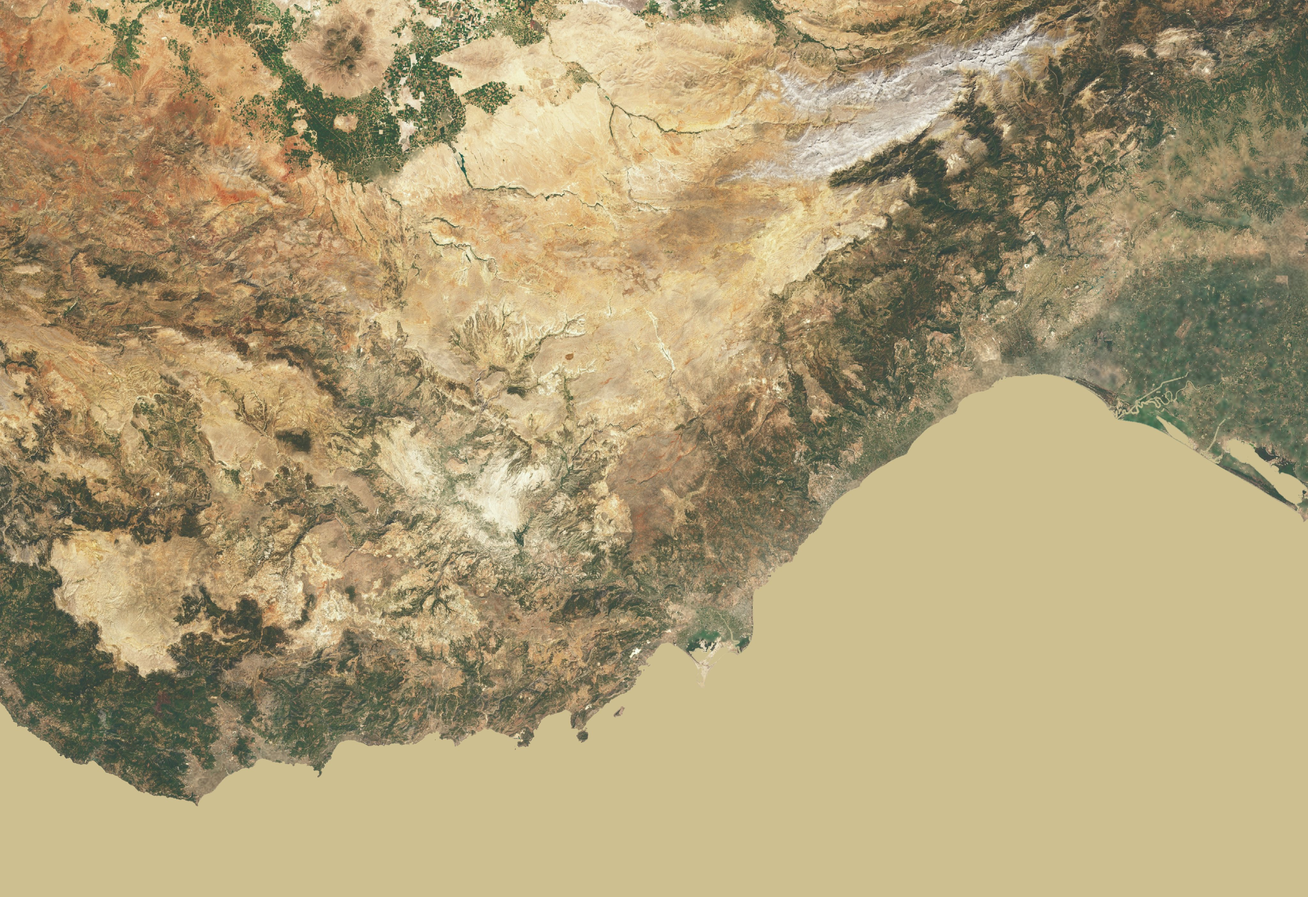
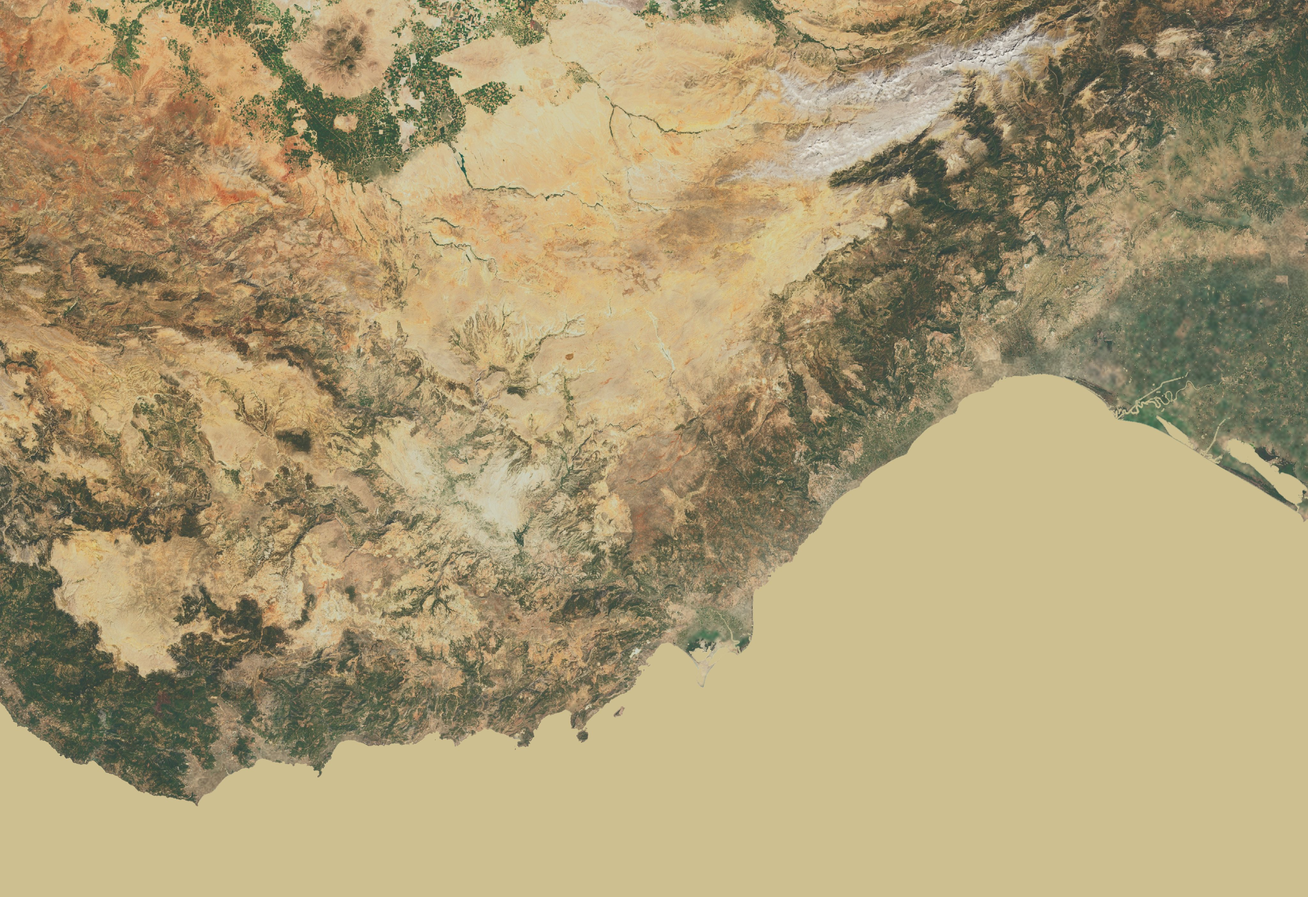
Terrain: closer ground detail, clumped trees, rivers visible behind ridges (work in progress)
Claude-Session: https://claude.ai/code/session_01RcwKvWC9jgLcENAuLPuhEE

diff --git a/src/terrain.js b/src/terrain.js
@@ -90,20 +90,22 @@ export function buildTerrain(heights0, dist, step = 1, low = false, cover = null
           return mix(mix(h21(i), h21(i+vec2(1,0)), f.x), mix(h21(i+vec2(0,1)), h21(i+vec2(1,1)), f.x), f.y); }`)
       .replace('#include <map_fragment>', `#include <map_fragment>
         float dd = length(cameraPosition - vWp);
-        float near = 1.0 - smoothstep(3.0, 14.0, dd), mid = 1.0 - smoothstep(20.0, 120.0, dd);
+        float near = 1.0 - smoothstep(5.0, 32.0, dd), mid = 1.0 - smoothstep(20.0, 120.0, dd);
         vec3 cov = texture2D(uCover, vMapUv).rgb; // tree, shrub, crop fractions
         // forest: crowns as dark clumps, coarser with distance so woods keep a texture beyond the 3D trees
-        float crowns = vn(vWp.xz*7.0)*0.5 + vn(vWp.xz*19.0)*0.3 + vn(vWp.xz*53.0)*0.2;
-        float wood = cov.r * smoothstep(0.25, 0.6, crowns + cov.r*0.35);
-        diffuseColor.rgb = mix(diffuseColor.rgb, diffuseColor.rgb*vec3(0.5, 0.62, 0.46), wood*(0.25 + 0.3*mid));
+        float crowns = vn(vWp.xz*9.0)*0.4 + vn(vWp.xz*27.0)*0.35 + vn(vWp.xz*71.0)*0.25;
+        float wood = smoothstep(0.15, 0.6, cov.r) * smoothstep(0.3, 0.62, crowns + cov.r*0.3);
+        diffuseColor.rgb = mix(diffuseColor.rgb, diffuseColor.rgb*vec3(0.42, 0.56, 0.44), wood*(0.3 + 0.4*mid));
         // open ground close up: pale limestone outcrops and stones, darker maquis tufts
         float n = vn(vWp.xz*6.0)*0.5 + vn(vWp.xz*23.0)*0.3 + vn(vWp.xz*71.0)*0.2;
         diffuseColor.rgb *= mix(1.0, 0.84 + 0.32*n, 1.0 - smoothstep(6.0, 60.0, dd));
         float open = 1.0 - cov.r;
         float stone = smoothstep(0.6, 0.78, vn(vWp.xz*41.0 + 11.0)*0.6 + vn(vWp.xz*120.0)*0.4);
-        diffuseColor.rgb = mix(diffuseColor.rgb, diffuseColor.rgb*1.22 + 0.04, stone*open*near*0.7);
+        diffuseColor.rgb = mix(diffuseColor.rgb, diffuseColor.rgb*1.3 + 0.05, stone*open*near*0.85);
+        float soil = vn(vWp.xz*15.0 + 5.0)*0.6 + vn(vWp.xz*180.0)*0.4;
+        diffuseColor.rgb *= mix(1.0, 0.78 + 0.44*soil, open*near);
         float tuft = smoothstep(0.62, 0.8, vn(vWp.xz*67.0 + 3.0)) * (0.35 + cov.g*2.0);
-        diffuseColor.rgb = mix(diffuseColor.rgb, diffuseColor.rgb*vec3(0.55, 0.68, 0.5), min(1.0, tuft)*open*near*0.55);`);
+        diffuseColor.rgb = mix(diffuseColor.rgb, diffuseColor.rgb*vec3(0.55, 0.68, 0.5), min(1.0, tuft)*open*near*0.7);`);
   };
   // earth-coloured wall round the edge of the map, from the surface down to the plinth
   const edge = [];
@@ -115,14 +117,14 @@ export function buildTerrain(heights0, dist, step = 1, low = false, cover = null
   edge.forEach((k, n) => { sp.push(pos.getX(k), pos.getY(k), pos.getZ(k), pos.getX(k), -1.5, pos.getZ(k)); const a = n * 2, b = ((n + 1) % edge.length) * 2; si.push(a, b, a + 1, b, b + 1, a + 1); });
   const skirtGeo = new THREE.BufferGeometry();
   skirtGeo.setAttribute('position', new THREE.Float32BufferAttribute(sp, 3)); skirtGeo.setIndex(si); skirtGeo.computeVertexNormals();
-  const skirt = new THREE.Mesh(skirtGeo, new THREE.MeshStandardMaterial({ color: 0x6b5a45, roughness: 1, side: THREE.DoubleSide }));
+  const skirt = new THREE.Mesh(skirtGeo, new THREE.MeshStandardMaterial({ color: 0x8a745a, roughness: 1, side: THREE.DoubleSide }));
   const land = new THREE.Mesh(geo, mat);
   land.receiveShadow = true;
 
   // table-model plinth under the terrain
   const base = new THREE.Mesh(
     new THREE.BoxGeometry(WORLD.w + 5, 5, WORLD.d + 5),
-    new THREE.MeshStandardMaterial({ color: 0x4d3d2c, roughness: 0.8 }),
+    new THREE.MeshStandardMaterial({ color: 0x7a6650, roughness: 0.9 }),
   );
   base.position.y = -3.9;
   const g = new THREE.Group();
@@ -140,7 +142,7 @@ export function buildSea(heights, dist) {
   for (let i = 0; i < w * h; i++) {
     const m = heights[i];
     // depth proxy: distance offshore, over a shelf that is narrow below steep coasts and wide off the deltas
-    data[i * 4] = m < 0.5 ? Math.min(255, (dist[i] / (1.3 + 15 * Math.exp(-relief[i] / 35))) * 255) : 0;
+    data[i * 4] = m < 0.5 ? Math.min(255, (dist[i] / (1.0 + 13 * Math.exp(-relief[i] / 30))) * 255) : 0;
     data[i * 4 + 1] = m >= 0.5 ? 255 : 0; // land mask
     data[i * 4 + 3] = 255;
   }
@@ -172,7 +174,8 @@ export function buildSea(heights, dist) {
         c += 0.03*wave(vWorld.xz*0.9) * (1.0 - smoothstep(30.0, 110.0, d)); // ripples only where they resolve
         // (no point glitter: at map scale it read as debris on the water)
         vec3 v = normalize(cameraPosition - vWorld);
-        c += uSun * 0.05 * pow(1.0 - v.y, 3.0); // soft sheen towards the horizon // fades out before it can alias
+        c += uSun * 0.05 * pow(1.0 - v.y, 3.0); // soft sheen towards the horizon
+        c += 0.035 * (wave(vWorld.xz*2.3 + 1.7) + wave(vWorld.zx*5.1)) * (1.0 - smoothstep(4.0, 40.0, d)); // swell, close up // fades out before it can alias
         // surf line breathing against the shore
         float shore = smoothstep(0.15, 0.6, land);
         float foam = smoothstep(0.55, 0.9, shore + 0.18*sin(uTime*1.4 + vWorld.x*1.3 + vWorld.z*1.7)) * (1.0-smoothstep(0.9,1.0,land));

diff --git a/src/main.js b/src/main.js
@@ -86,7 +86,7 @@ const sound = new Sound();
 const siteObjs = [];
 const GROUNDED = 0.012; // model height at which a diorama's own ground is flush with the map
 let sampleH = () => 0;
-let sea, roadGroup, roadMats = [], riverMat, trees, ships = [], clouds = [], mapLabels = [];
+let sea, roadGroup, roadMats = [], riverMat, riverGhost, trees, ships = [], clouds = [], mapLabels = [];
 const groundY = (x, z) => metresToY(Math.max(sampleH(x, z), 0));
 
 // ---------- build world ----------
@@ -189,6 +189,9 @@ function buildSites() {
 function buildRivers() {
   // valley-floor traces from the DEM (tools/trace_rivers.py)
   riverMat = new LineMaterial({ color: 0x3f9fc4, linewidth: 3, transparent: true, opacity: 0.95, depthWrite: false });
+  // a faint second pass shows a river's course where a ridge hides its gorge
+  const ghost = new LineMaterial({ color: 0x3f9fc4, linewidth: 2, transparent: true, opacity: 0.28, depthWrite: false, depthTest: false });
+  riverGhost = ghost;
   for (const pts of Object.values(RIVERS)) {
     const flat = [];
     // the traces step from cell to cell; every third point through a spline gives a natural course
@@ -197,7 +200,7 @@ function buildRivers() {
     for (const p of curve.getSpacedPoints(pts.length * 10)) flat.push(p.x, groundY(p.x, p.z) + 0.08, p.z);
     const line = new Line2(new LineGeometry().setPositions(flat), riverMat);
     line.renderOrder = 1;
-    scene.add(line);
+    scene.add(line, new Line2(line.geometry, ghost));
   }
 }
 
@@ -293,7 +296,9 @@ function buildTrees(cover) {
     const add = (kind, x, z, y, s) => (list[kind] ||= []).push(x, y, z, s);
     for (let j = bz * CH; j < Math.min(GRID.h, (bz + 1) * CH); j++) for (let i = bx * CH; i < Math.min(GRID.w, (bx + 1) * CH); i++) {
       const k = (j * GRID.w + i) * 4, tree = cover[k] / 255, shrub = cover[k + 1] / 255, crop = cover[k + 2] / 255;
-      let n = tree * 3 * dens + shrub * 0.4 * dens + crop * 0.15 * dens;
+      // clumped: stands and clearings rather than an even sprinkle
+      const clump = 0.35 + 1.3 * (0.5 + 0.5 * Math.sin(i * 0.37 + Math.sin(j * 0.23) * 2.1) * Math.cos(j * 0.31 + Math.sin(i * 0.19) * 1.7));
+      let n = (tree * tree * 5 + shrub * 0.7 + crop * 0.15) * dens * clump;
       for (; n > 0; n--) {
         if (n < 1 && rnd() > n) break;
         const x = (i + rnd() - 0.5) * cellW - WORLD.w / 2, z = (j + rnd() - 0.5) * cellD - WORLD.d / 2, h = sampleH(x, z);
@@ -306,7 +311,7 @@ function buildTrees(cover) {
             : e < 1000 ? (u < 0.9 ? 'brutia' : 'carob') : e < 1350 ? (u < 0.6 ? 'nigra' : 'brutia') : e < 2000 ? (u < 0.45 ? 'cedar' : u < 0.75 ? 'fir' : u < 0.9 ? 'nigra' : 'juniper') : 'juniper';
         } else if (r < tree + shrub) kind = h < 900 ? 'maquis' : 'juniper';
         else kind = h < 500 ? (u < 0.7 ? 'olive' : 'carob') : 'olive';
-        const s = (kind === 'maquis' ? 0.5 : kind === 'juniper' ? 0.8 : 1.25) * (0.6 + rnd() * 0.8);
+        const s = (kind === 'maquis' ? 0.5 : kind === 'juniper' ? 0.8 : 1.25) * (0.5 + rnd() * rnd() * 1.4);
         add(kind, x, z, metresToY(h) - 0.004, s);
       }
     }
@@ -693,7 +698,7 @@ function resize() {
   applyViewOffset();
   controls.maxDistance = Math.max(450, overviewPose().pos.distanceTo(OVERVIEW.target) * 1.15);
   for (const o of siteObjs) o.w = 0;
-  for (const m of [...roadMats, riverMat]) m && m.resolution.set(w, h);
+  for (const m of [...roadMats, riverMat, riverGhost]) m && m.resolution.set(w, h);
 }
 
 // drop shadows and retina resolution if the device cannot keep up

diff --git a/tools/build_terrain_data.py b/tools/build_terrain_data.py
@@ -221,7 +221,7 @@ def main():
     grain = (noise(TEX_H, TEX_W, 4, 21) - 0.5) * 0.22 + (noise(TEX_H, TEX_W, 14, 22) - 0.5) * 0.16
     col[modern] *= (1 + grain[modern])[:, None]
     # the plains: today's ruler-straight parcels (and an airfield) soften into a mottled patchwork of fields
-    plain = land & (lc == 40) & (ht < 250) & ~modern
+    plain = land & ((lc == 40) & (ht < 250) | np.isin(lc, (30, 40, 50, 60)) & (ht < 60)) & ~modern
     soft = np.stack([box(box(col[..., k], 5), 5) for k in range(3)], -1)
     mosaic = (noise(TEX_H, TEX_W, 7, 31) - 0.5) * 0.2 + (noise(TEX_H, TEX_W, 22, 32) - 0.5) * 0.14
     col[plain] = soft[plain] * (1 + mosaic[plain])[:, None]
@@ -231,6 +231,7 @@ def main():
     col *= np.array([0.97, 1.0, 0.98], np.float32)
     # the mosaic carries its own terrain shadows and the scene lights it again: open up the darkest tones
     lum2 = col.mean(-1, keepdims=True); col += np.clip(0.3 - lum2, 0, 1) * 0.45
+    col -= np.clip(lum2 - 0.66, 0, 1) * 0.55  # and hold back the glare of the bare limestone plateau
     # the high Taurus is pale grey limestone and scree, not the ochre of a low-sun mosaic
     alp = np.clip((box(ht, 2) - 2200) / 500, 0, 1)[..., None] * 0.6
     grey = col.mean(-1, keepdims=True) * np.array([0.98, 0.99, 1.02], np.float32) * 1.12
